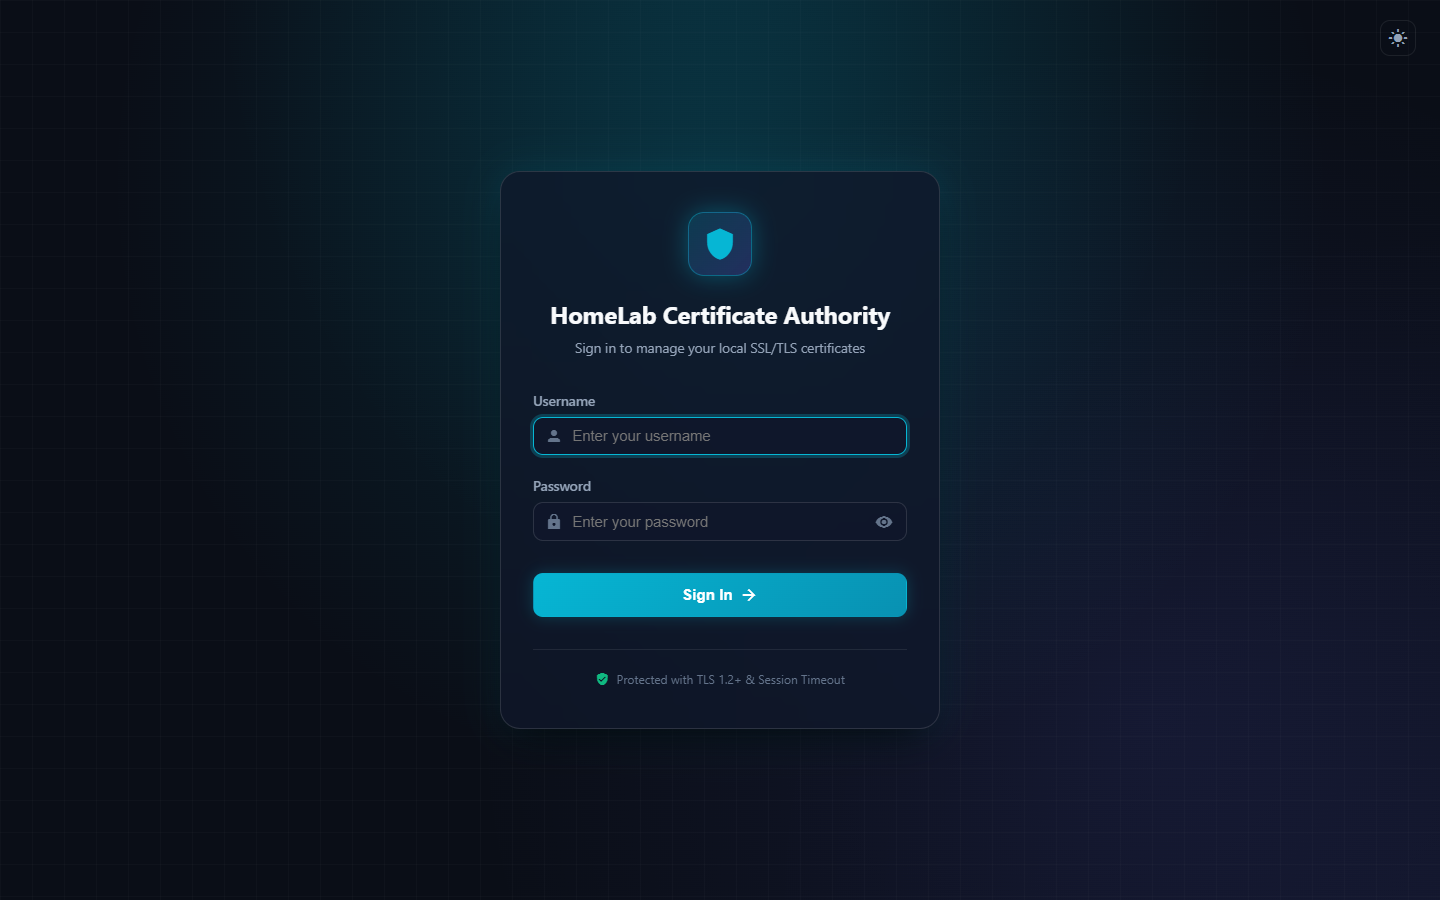
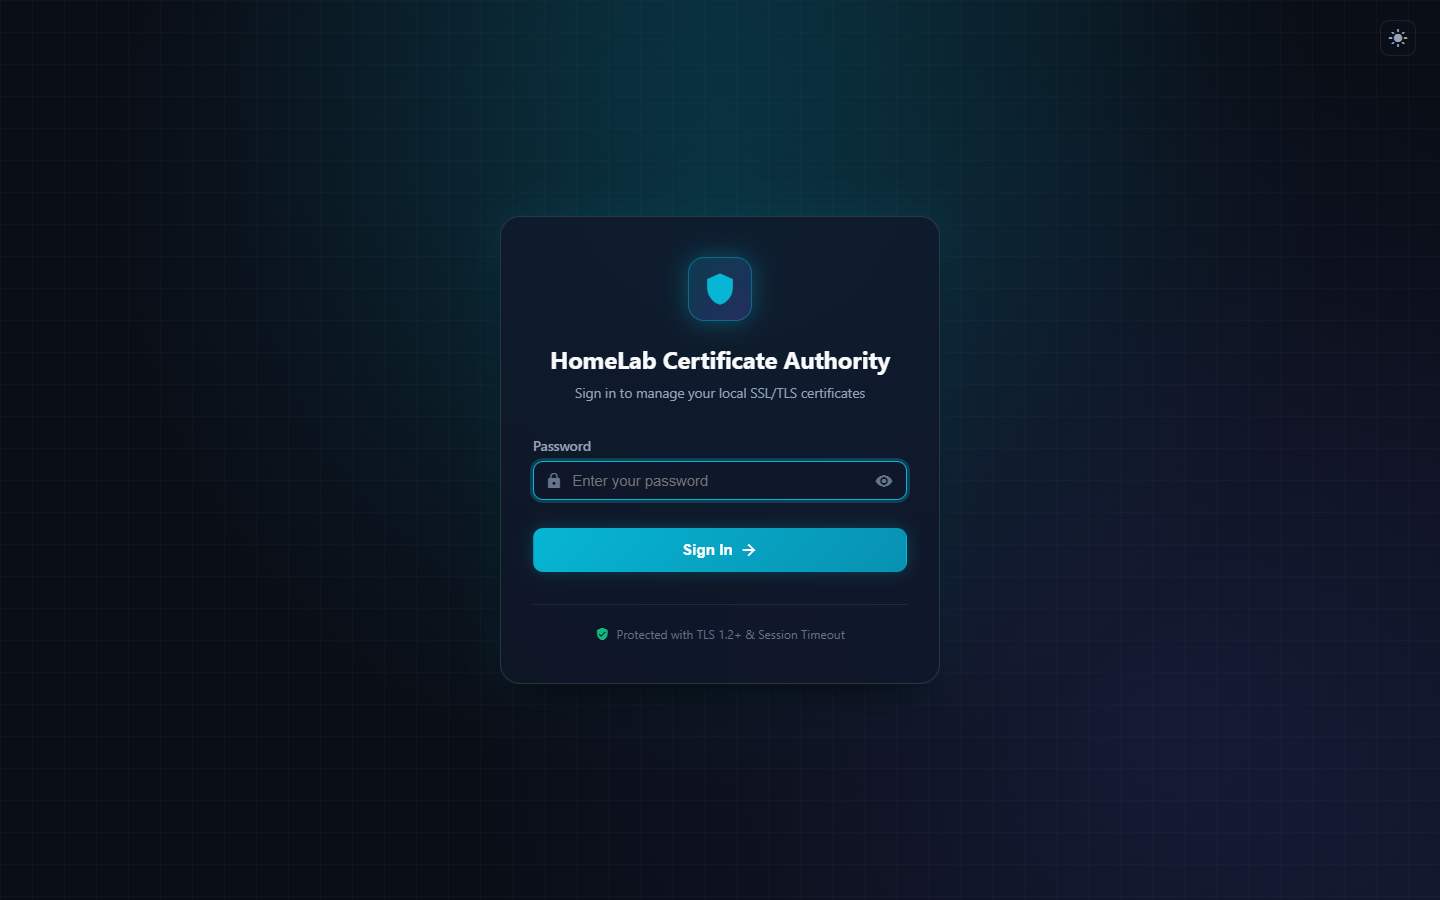
remove username box

Changed region(s): [[0.3438, 0.2178, 0.6562, 0.7156], [0.4062, 0.7467, 0.5938, 0.7778]]

diff --git a/templates/login.html b/templates/login.html
@@ -49,26 +49,10 @@
             <!-- Login Form -->
             <form action="/login" method="POST" id="loginForm">
                 <input type="hidden" name="csrf_token" value="{{ .csrfToken }}">
-
-                <!-- Username Input -->
-                <div class="form-group">
-                    <label class="form-label" for="username">Username</label>
-                    <div class="input-with-icon">
-                        <i class="material-icons input-leading-icon">person</i>
-                        <input 
-                            type="text" 
-                            id="username" 
-                            name="username" 
-                            autocomplete="username" 
-                            placeholder="Enter your username" 
-                            required 
-                            autofocus
-                        >
-                    </div>
-                </div>
+                <input type="hidden" name="username" value="admin" autocomplete="username">
 
                 <!-- Password Input -->
-                <div class="form-group" style="margin-top: 1.25rem;">
+                <div class="form-group">
                     <label class="form-label" for="password">Password</label>
                     <div class="input-with-icon">
                         <i class="material-icons input-leading-icon">lock</i>
@@ -79,6 +63,7 @@
                             autocomplete="current-password" 
                             placeholder="Enter your password" 
                             required
+                            autofocus
                         >
                         <button type="button" class="input-trailing-btn" onclick="togglePasswordVisibility()" aria-label="Toggle password visibility">
                             <i id="passwordToggleIcon" class="material-icons" style="font-size: 18px;">visibility</i>
@@ -87,7 +72,7 @@
                 </div>
 
                 <!-- Sign In Button -->
-                <div style="margin-top: 2rem;">
+                <div style="margin-top: 1.75rem;">
                     <button type="submit" class="btn btn-primary" style="width: 100%; padding: 0.75rem; font-size: 0.95rem;">
                         <span>Sign In</span>
                         <i class="material-icons" style="font-size: 18px;">arrow_forward</i>

diff --git a/main.go b/main.go
@@ -616,6 +616,9 @@ func showLoginPage(c *gin.Context) {
 
 func handleLogin(c *gin.Context, config *Config) {
 	username := c.PostForm("username")
+	if username == "" {
+		username = "admin"
+	}
 	password := c.PostForm("password")
 
 	// Check if the stored password is a bcrypt hash
